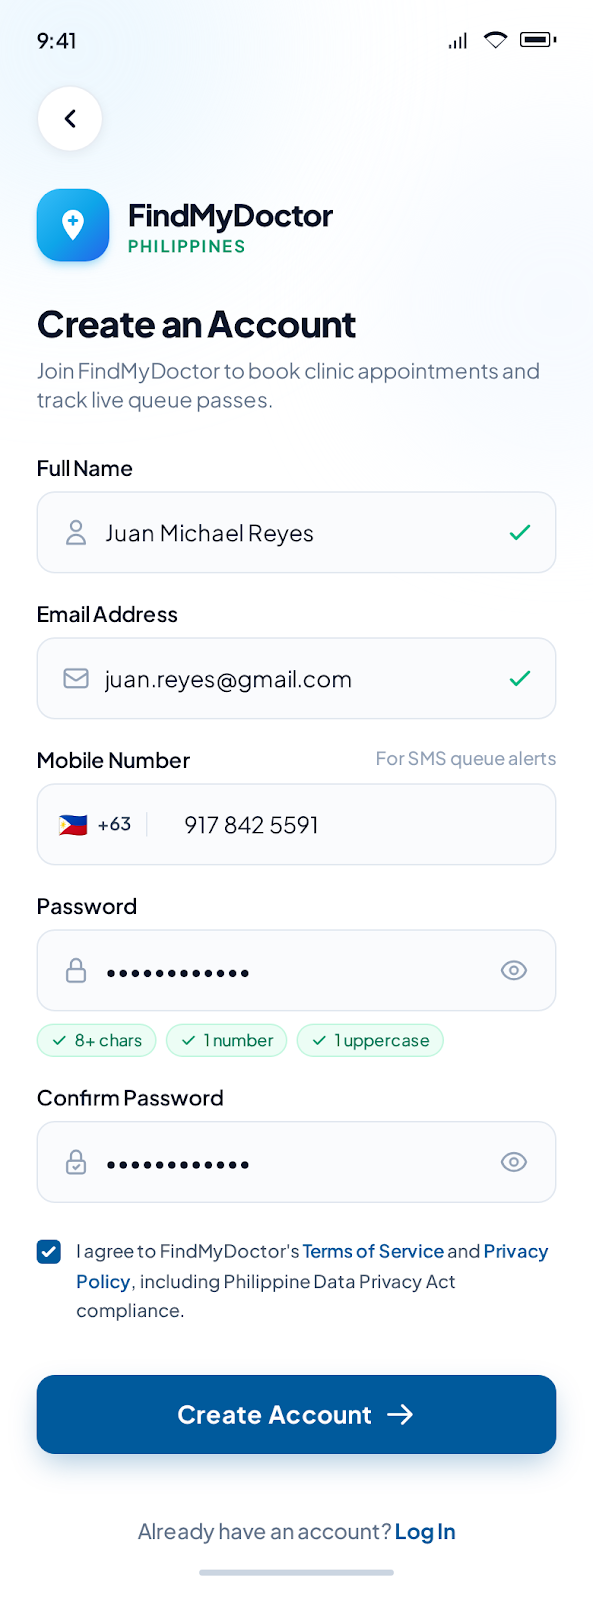
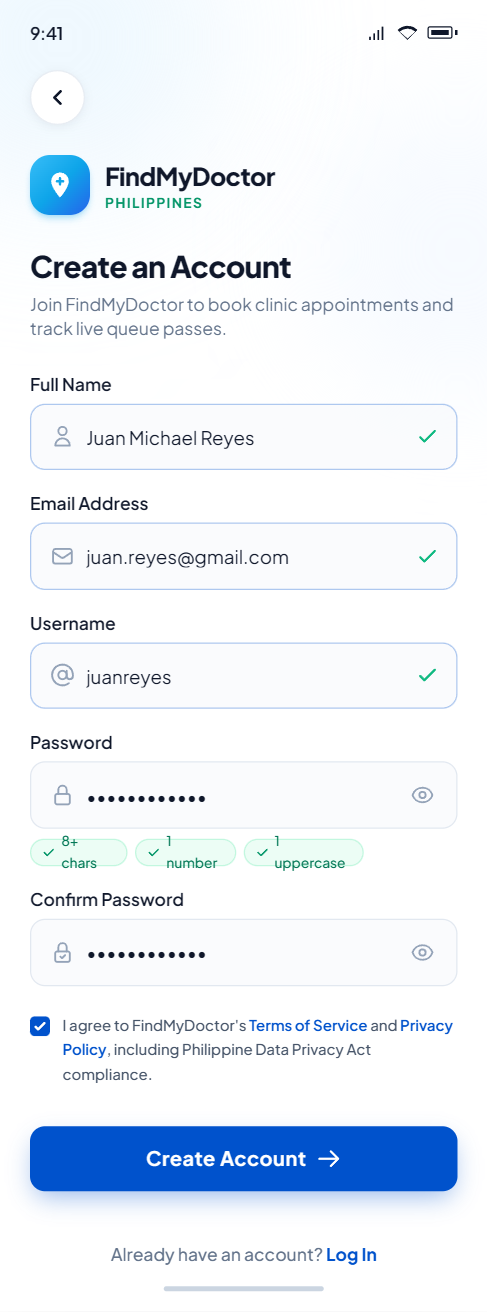
[Flores][docs] update patient registration prototype with username field

diff --git a/UI-Prototypes/users-mobile-ui/Patient Registration & Sign Up/code.html b/UI-Prototypes/users-mobile-ui/Patient Registration & Sign Up/code.html
@@ -1,13 +1,11 @@
-<!DOCTYPE html>
-
-<html lang="en"><head>
-<meta charset="utf-8"/>
-<meta content="width=device-width, initial-scale=1.0, maximum-scale=1.0, user-scalable=no" name="viewport"/>
+<!DOCTYPE html><html lang="en"><head>
+<meta charset="utf-8">
+<meta content="width=device-width, initial-scale=1.0, maximum-scale=1.0, user-scalable=no" name="viewport">
 <title>Patient Sign Up - FindMyDoctor Philippines</title>
 <!-- Google Fonts: Plus Jakarta Sans -->
-<link href="https://fonts.googleapis.com" rel="preconnect"/>
-<link crossorigin="" href="https://fonts.gstatic.com" rel="preconnect"/>
-<link href="https://fonts.googleapis.com/css2?family=Plus+Jakarta+Sans:wght@400;500;600;700;800&amp;display=swap" rel="stylesheet"/>
+<link href="https://fonts.googleapis.com" rel="preconnect">
+<link crossorigin="" href="https://fonts.gstatic.com" rel="preconnect">
+<link href="https://fonts.googleapis.com/css2?family=Plus+Jakarta+Sans:wght@400;500;600;700;800&amp;display=swap" rel="stylesheet">
 <!-- Tailwind CSS CDN with forms and container queries -->
 <script src="https://cdn.tailwindcss.com?plugins=forms,container-queries"></script>
 <script>
@@ -74,12 +72,12 @@
 <span class="text-sm font-semibold tracking-tight text-navy-900">9:41</span>
 <div class="flex items-center space-x-2 text-navy-900">
 <!-- Cellular Signal Bars -->
-<svg aria-hidden="true" class="w-4 h-4 fill-current" viewbox="0 0 24 24">
+<svg aria-hidden="true" class="w-4 h-4 fill-current" viewBox="0 0 24 24">
 <path class="opacity-0" d="M12 3c-4.97 0-9 4.03-9 9 0 2.12.74 4.07 1.97 5.61L4.35 19.4c-.39.39-.39 1.02 0 1.41.39.39 1.02.39 1.41 0l1.9-1.9C9.28 19.64 10.59 20 12 20c4.97 0 9-4.03 9-9s-4.03-9-9-9zm0 15c-3.31 0-6-2.69-6-6s2.69-6 6-6 6 2.69 6 6-2.69 6-6 6z"></path>
 <path d="M2 17h2v4H2v-4zm5-4h2v8H7v-8zm5-4h2v12h-2V9zm5-4h2v16h-2V5z"></path>
 </svg>
 <!-- Wi-Fi Icon -->
-<svg aria-hidden="true" class="w-4 h-4 fill-current" viewbox="0 0 24 24">
+<svg aria-hidden="true" class="w-4 h-4 fill-current" viewBox="0 0 24 24">
 <path d="M12 4C7.31 4 3.07 5.9 0 8.98L12 21 24 8.98C20.93 5.9 16.69 4 12 4zm0 3.38c3.6 0 6.87 1.34 9.38 3.55L12 19.34 2.62 10.93C5.13 8.72 8.4 7.38 12 7.38z"></path>
 </svg>
 <!-- Battery Icon with Pill fill -->
@@ -96,7 +94,7 @@
 <section class="mt-1 mb-6 flex flex-col items-start" data-purpose="navigation-and-brand">
 <!-- Circular Back Button -->
 <a aria-label="Go back to login" class="w-11 h-11 rounded-full bg-white border border-slate-200/80 shadow-back-btn flex items-center justify-center text-navy-900 hover:bg-slate-50 transition-all active:scale-95 duration-150 focus:outline-none focus:ring-2 focus:ring-brand-500/20" href="#login">
-<svg class="w-5 h-5" fill="none" stroke="currentColor" stroke-linecap="round" stroke-linejoin="round" stroke-width="2.5" viewbox="0 0 24 24">
+<svg class="w-5 h-5" fill="none" stroke="currentColor" stroke-linecap="round" stroke-linejoin="round" stroke-width="2.5" viewBox="0 0 24 24">
 <polyline points="15 18 9 12 15 6"></polyline>
 </svg>
 </a>
@@ -104,7 +102,7 @@
 <div class="mt-6 flex items-center gap-3" data-purpose="app-branding">
 <div class="w-12 h-12 rounded-2xl bg-gradient-to-br from-sky-400 via-sky-500 to-blue-600 flex items-center justify-center shadow-md shadow-sky-500/25 flex-shrink-0">
 <!-- Location Pin with Cross Icon -->
-<svg class="w-6 h-6 text-white fill-current" viewbox="0 0 24 24">
+<svg class="w-6 h-6 text-white fill-current" viewBox="0 0 24 24">
 <path d="M12 2C8.13 2 5 5.13 5 9c0 5.25 7 13 7 13s7-7.75 7-13c0-3.87-3.13-7-7-7zm0 11a4 4 0 1 1 0-8 4 4 0 0 1 0 8z" opacity="0.4"></path>
 <path d="M12 2C8.14 2 5 5.14 5 9c0 5.25 7 13 7 13s7-7.75 7-13c0-3.86-3.14-7-7-7zm2.5 8h-1.5v1.5a1 1 0 0 1-2 0V10H9.5a1 1 0 0 1 0-2H11V6.5a1 1 0 0 1 2 0V8h1.5a1 1 0 0 1 0 2z"></path>
 </svg>
@@ -131,14 +129,14 @@
 <label class="block text-sm font-semibold text-navy-900 mb-1.5" for="fullName">Full Name</label>
 <div class="relative flex items-center">
 <span class="absolute left-4 text-slate-400 pointer-events-none flex items-center justify-center">
-<svg class="w-5 h-5" fill="none" stroke="currentColor" stroke-width="1.8" viewbox="0 0 24 24">
+<svg class="w-5 h-5" fill="none" stroke="currentColor" stroke-width="1.8" viewBox="0 0 24 24">
 <path d="M16 7a4 4 0 11-8 0 4 4 0 018 0zM12 14a7 7 0 00-7 7h14a7 7 0 00-7-7z" stroke-linecap="round" stroke-linejoin="round"></path>
 </svg>
 </span>
-<input class="w-full bg-slate-50/70 border border-slate-200 text-slate-900 placeholder:text-slate-400 text-[15px] rounded-xl pl-11 pr-10 py-3.5 focus:bg-white focus:outline-none focus:ring-2 focus:ring-brand-500/20 focus:border-brand-600 transition duration-150" id="fullName" name="fullName" placeholder="e.g. Juan Michael Reyes" required="" type="text" value="Juan Michael Reyes"/>
+<input class="w-full bg-slate-50/70 border border-slate-200 text-slate-900 placeholder:text-slate-400 text-[15px] rounded-xl pl-11 pr-10 py-3.5 focus:bg-white focus:outline-none focus:ring-2 focus:ring-brand-500/20 focus:border-brand-600 transition duration-150" id="fullName" name="fullName" placeholder="e.g. Juan Michael Reyes" required="" type="text" value="Juan Michael Reyes" style="--tw-ring-color: rgba(0, 82, 204, 0.2); border-color: rgba(0, 82, 204, 0.3);">
 <!-- Valid Checkmark Indicator -->
 <span class="absolute right-3.5 text-emerald-500 flex items-center">
-<svg class="w-5 h-5" fill="none" stroke="currentColor" stroke-width="2.2" viewbox="0 0 24 24">
+<svg class="w-5 h-5" fill="none" stroke="currentColor" stroke-width="2.2" viewBox="0 0 24 24">
 <path d="M5 13l4 4L19 7" stroke-linecap="round" stroke-linejoin="round"></path>
 </svg>
 </span>
@@ -149,14 +147,14 @@
 <label class="block text-sm font-semibold text-navy-900 mb-1.5" for="email">Email Address</label>
 <div class="relative flex items-center">
 <span class="absolute left-4 text-slate-400 pointer-events-none flex items-center">
-<svg class="w-5 h-5" fill="none" stroke="currentColor" stroke-width="1.8" viewbox="0 0 24 24">
+<svg class="w-5 h-5" fill="none" stroke="currentColor" stroke-width="1.8" viewBox="0 0 24 24">
 <path d="M3 8l7.89 5.26a2 2 0 002.22 0L21 8M5 19h14a2 2 0 002-2V7a2 2 0 00-2-2H5a2 2 0 00-2 2v10a2 2 0 002 2z" stroke-linecap="round" stroke-linejoin="round"></path>
 </svg>
 </span>
-<input class="w-full bg-slate-50/70 border border-slate-200 text-slate-900 placeholder:text-slate-400 text-[15px] rounded-xl pl-11 pr-10 py-3.5 focus:bg-white focus:outline-none focus:ring-2 focus:ring-brand-500/20 focus:border-brand-600 transition duration-150" id="email" name="email" placeholder="Enter your email" required="" type="email" value="juan.reyes@gmail.com"/>
+<input class="w-full bg-slate-50/70 border border-slate-200 text-slate-900 placeholder:text-slate-400 text-[15px] rounded-xl pl-11 pr-10 py-3.5 focus:bg-white focus:outline-none focus:ring-2 focus:ring-brand-500/20 focus:border-brand-600 transition duration-150" id="email" name="email" placeholder="Enter your email" required="" type="email" value="juan.reyes@gmail.com" style="--tw-ring-color: rgba(0, 82, 204, 0.2); border-color: rgba(0, 82, 204, 0.3);">
 <!-- Valid Checkmark Indicator -->
 <span class="absolute right-3.5 text-emerald-500 flex items-center">
-<svg class="w-5 h-5" fill="none" stroke="currentColor" stroke-width="2.2" viewbox="0 0 24 24">
+<svg class="w-5 h-5" fill="none" stroke="currentColor" stroke-width="2.2" viewBox="0 0 24 24">
 <path d="M5 13l4 4L19 7" stroke-linecap="round" stroke-linejoin="round"></path>
 </svg>
 </span>
@@ -164,17 +162,20 @@
 </div>
 <!-- Mobile Number Field (Philippine format) -->
 <div>
-<div class="flex justify-between items-center mb-1.5">
-<label class="block text-sm font-semibold text-navy-900" for="phone">Mobile Number</label>
-<span class="text-xs font-medium text-slate-400">For SMS queue alerts</span>
-</div>
+<label class="block text-sm font-semibold text-navy-900 mb-1.5" for="username">Username</label>
 <div class="relative flex items-center">
-<!-- Philippine Flag & Country Code Pill -->
-<div class="absolute left-3.5 flex items-center space-x-1.5 pr-2.5 border-r border-slate-200 pointer-events-none">
-<span class="text-base leading-none">🇵🇭</span>
-<span class="text-xs font-semibold text-slate-700">+63</span>
-</div>
-<input class="w-full bg-slate-50/70 border border-slate-200 text-slate-900 placeholder:text-slate-400 text-[15px] rounded-xl pl-24 pr-4 py-3.5 focus:bg-white focus:outline-none focus:ring-2 focus:ring-brand-500/20 focus:border-brand-600 transition duration-150" id="phone" name="phone" placeholder="917 123 4567" type="tel" value="917 842 5591"/>
+<span class="absolute left-4 text-slate-400 pointer-events-none flex items-center justify-center">
+<svg class="w-5 h-5" fill="none" stroke="currentColor" stroke-width="1.8" viewBox="0 0 24 24">
+<circle cx="12" cy="12" r="4"></circle>
+<path d="M16 8v5a3 3 0 0 0 6 0v-1a10 10 0 1 0-3.92 7.94" stroke-linecap="round" stroke-linejoin="round"></path>
+</svg>
+</span>
+<input class="w-full bg-slate-50/70 border border-slate-200 text-slate-900 placeholder:text-slate-400 text-[15px] rounded-xl pl-11 pr-10 py-3.5 focus:bg-white focus:outline-none focus:ring-2 focus:ring-brand-500/20 focus:border-brand-600 transition duration-150" id="username" name="username" placeholder="e.g. juanreyes" required="" type="text" value="juanreyes" style="--tw-ring-color: rgba(0, 82, 204, 0.2); border-color: rgba(0, 82, 204, 0.3);">
+<span class="absolute right-3.5 text-emerald-500 flex items-center">
+<svg class="w-5 h-5" fill="none" stroke="currentColor" stroke-width="2.2" viewBox="0 0 24 24">
+<path d="M5 13l4 4L19 7" stroke-linecap="round" stroke-linejoin="round"></path>
+</svg>
+</span>
 </div>
 </div>
 <!-- Password Field -->
@@ -182,15 +183,15 @@
 <label class="block text-sm font-semibold text-navy-900 mb-1.5" for="password">Password</label>
 <div class="relative flex items-center">
 <span class="absolute left-4 text-slate-400 pointer-events-none flex items-center">
-<svg class="w-5 h-5" fill="none" stroke="currentColor" stroke-width="1.8" viewbox="0 0 24 24">
+<svg class="w-5 h-5" fill="none" stroke="currentColor" stroke-width="1.8" viewBox="0 0 24 24">
 <rect height="10" rx="2" stroke-linecap="round" stroke-linejoin="round" width="14" x="5" y="11"></rect>
 <path d="M8 11V7a4 4 0 118 0v4" stroke-linecap="round" stroke-linejoin="round"></path>
 </svg>
 </span>
-<input class="w-full bg-slate-50/70 border border-slate-200 text-slate-900 placeholder:text-slate-400 text-[15px] rounded-xl pl-11 pr-11 py-3.5 focus:bg-white focus:outline-none focus:ring-2 focus:ring-brand-500/20 focus:border-brand-600 transition duration-150" id="password" name="password" placeholder="Create password (min. 8 characters)" required="" type="password" value="Mabuhay2024!"/>
+<input class="w-full bg-slate-50/70 border border-slate-200 text-slate-900 placeholder:text-slate-400 text-[15px] rounded-xl pl-11 pr-11 py-3.5 focus:bg-white focus:outline-none focus:ring-2 focus:ring-brand-500/20 focus:border-brand-600 transition duration-150" id="password" name="password" placeholder="Create password (min. 8 characters)" required="" type="password" value="Mabuhay2024!" style="--tw-ring-color: rgba(0, 82, 204, 0.2);">
 <!-- Password Visibility Toggle Button -->
 <button aria-label="Toggle password visibility" class="absolute right-3.5 text-slate-400 hover:text-slate-600 focus:outline-none p-1" data-purpose="password-visibility-toggle" id="togglePassword" type="button">
-<svg class="w-5 h-5" fill="none" stroke="currentColor" stroke-width="1.8" viewbox="0 0 24 24">
+<svg class="w-5 h-5" fill="none" stroke="currentColor" stroke-width="1.8" viewBox="0 0 24 24">
 <path d="M15 12a3 3 0 11-6 0 3 3 0 016 0z" stroke-linecap="round" stroke-linejoin="round"></path>
 <path d="M2.458 12C3.732 7.943 7.523 5 12 5c4.478 0 8.268 2.943 9.542 7-1.274 4.057-5.064 7-9.542 7-4.477 0-8.268-2.943-9.542-7z" stroke-linecap="round" stroke-linejoin="round"></path>
 </svg>
@@ -199,19 +200,19 @@
 <!-- Password Requirement Pills / Realtime status -->
 <div class="mt-2 flex flex-wrap gap-1.5" data-purpose="password-rules-indicator">
 <span class="inline-flex items-center text-[11px] font-medium bg-emerald-50 text-emerald-700 px-2 py-0.5 rounded-full border border-emerald-200/60">
-<svg class="w-3 h-3 mr-1 text-emerald-600" fill="currentColor" viewbox="0 0 20 20">
+<svg class="w-3 h-3 mr-1 text-emerald-600" fill="currentColor" viewBox="0 0 20 20">
 <path clip-rule="evenodd" d="M16.707 5.293a1 1 0 010 1.414l-8 8a1 1 0 01-1.414 0l-4-4a1 1 0 011.414-1.414L8 12.586l7.293-7.293a1 1 0 011.414 0z" fill-rule="evenodd"></path>
 </svg>
               8+ chars
             </span>
 <span class="inline-flex items-center text-[11px] font-medium bg-emerald-50 text-emerald-700 px-2 py-0.5 rounded-full border border-emerald-200/60">
-<svg class="w-3 h-3 mr-1 text-emerald-600" fill="currentColor" viewbox="0 0 20 20">
+<svg class="w-3 h-3 mr-1 text-emerald-600" fill="currentColor" viewBox="0 0 20 20">
 <path clip-rule="evenodd" d="M16.707 5.293a1 1 0 010 1.414l-8 8a1 1 0 01-1.414 0l-4-4a1 1 0 011.414-1.414L8 12.586l7.293-7.293a1 1 0 011.414 0z" fill-rule="evenodd"></path>
 </svg>
               1 number
             </span>
 <span class="inline-flex items-center text-[11px] font-medium bg-emerald-50 text-emerald-700 px-2 py-0.5 rounded-full border border-emerald-200/60">
-<svg class="w-3 h-3 mr-1 text-emerald-600" fill="currentColor" viewbox="0 0 20 20">
+<svg class="w-3 h-3 mr-1 text-emerald-600" fill="currentColor" viewBox="0 0 20 20">
 <path clip-rule="evenodd" d="M16.707 5.293a1 1 0 010 1.414l-8 8a1 1 0 01-1.414 0l-4-4a1 1 0 011.414-1.414L8 12.586l7.293-7.293a1 1 0 011.414 0z" fill-rule="evenodd"></path>
 </svg>
               1 uppercase
@@ -223,15 +224,15 @@
 <label class="block text-sm font-semibold text-navy-900 mb-1.5" for="confirmPassword">Confirm Password</label>
 <div class="relative flex items-center">
 <span class="absolute left-4 text-slate-400 pointer-events-none flex items-center">
-<svg class="w-5 h-5" fill="none" stroke="currentColor" stroke-width="1.8" viewbox="0 0 24 24">
+<svg class="w-5 h-5" fill="none" stroke="currentColor" stroke-width="1.8" viewBox="0 0 24 24">
 <rect height="10" rx="2" stroke-linecap="round" stroke-linejoin="round" width="14" x="5" y="11"></rect>
 <path d="M8 11V7a4 4 0 118 0v4" stroke-linecap="round" stroke-linejoin="round"></path>
 <path d="M10 16l1.5 1.5 3-3" stroke-linecap="round" stroke-linejoin="round"></path>
 </svg>
 </span>
-<input class="w-full bg-slate-50/70 border border-slate-200 text-slate-900 placeholder:text-slate-400 text-[15px] rounded-xl pl-11 pr-11 py-3.5 focus:bg-white focus:outline-none focus:ring-2 focus:ring-brand-500/20 focus:border-brand-600 transition duration-150" id="confirmPassword" name="confirmPassword" placeholder="Confirm your password" required="" type="password" value="Mabuhay2024!"/>
+<input class="w-full bg-slate-50/70 border border-slate-200 text-slate-900 placeholder:text-slate-400 text-[15px] rounded-xl pl-11 pr-11 py-3.5 focus:bg-white focus:outline-none focus:ring-2 focus:ring-brand-500/20 focus:border-brand-600 transition duration-150" id="confirmPassword" name="confirmPassword" placeholder="Confirm your password" required="" type="password" value="Mabuhay2024!" style="--tw-ring-color: rgba(0, 82, 204, 0.2);">
 <button aria-label="Toggle confirm password visibility" class="absolute right-3.5 text-slate-400 hover:text-slate-600 focus:outline-none p-1" id="toggleConfirmPassword" type="button">
-<svg class="w-5 h-5" fill="none" stroke="currentColor" stroke-width="1.8" viewbox="0 0 24 24">
+<svg class="w-5 h-5" fill="none" stroke="currentColor" stroke-width="1.8" viewBox="0 0 24 24">
 <path d="M15 12a3 3 0 11-6 0 3 3 0 016 0z" stroke-linecap="round" stroke-linejoin="round"></path>
 <path d="M2.458 12C3.732 7.943 7.523 5 12 5c4.478 0 8.268 2.943 9.542 7-1.274 4.057-5.064 7-9.542 7-4.477 0-8.268-2.943-9.542-7z" stroke-linecap="round" stroke-linejoin="round"></path>
 </svg>
@@ -242,20 +243,20 @@
 <div class="pt-1.5 pb-1">
 <label class="flex items-start cursor-pointer group select-none">
 <div class="relative flex items-center mt-0.5">
-<input checked="" class="w-4 h-4 text-brand-700 bg-white border-slate-300 rounded focus:ring-brand-500/30 focus:ring-2 focus:ring-offset-0 transition cursor-pointer" id="terms" name="terms" type="checkbox"/>
+<input checked="" class="w-4 h-4 text-brand-700 bg-white border-slate-300 rounded focus:ring-brand-500/30 focus:ring-2 focus:ring-offset-0 transition cursor-pointer" id="terms" name="terms" type="checkbox" style="accent-color: rgb(0, 82, 204); color: rgb(0, 82, 204);">
 </div>
 <span class="ml-2.5 text-xs text-slate-600 leading-relaxed font-medium">
               I agree to FindMyDoctor's 
-              <a class="text-brand-700 font-semibold hover:underline" href="#terms">Terms of Service</a> and 
-              <a class="text-brand-700 font-semibold hover:underline" href="#privacy">Privacy Policy</a>, including Philippine Data Privacy Act compliance.
+              <a class="text-brand-700 font-semibold hover:underline" href="#terms" style="color: rgb(0, 82, 204);">Terms of Service</a> and 
+              <a class="text-brand-700 font-semibold hover:underline" href="#privacy" style="color: rgb(0, 82, 204);">Privacy Policy</a>, including Philippine Data Privacy Act compliance.
             </span>
 </label>
 </div>
 <!-- Primary Call to Action Button -->
 <div class="pt-3">
-<button class="w-full h-13 py-3.5 px-6 rounded-xl bg-brand-700 hover:bg-brand-800 active:scale-[0.99] text-white font-bold text-[16px] tracking-wide flex items-center justify-center space-x-2 shadow-btn-primary transition duration-150 focus:outline-none focus:ring-4 focus:ring-brand-700/25" id="createAccountBtn" type="submit">
-<span>Create Account</span>
-<svg class="w-5 h-5" fill="none" stroke="currentColor" stroke-width="2.2" viewbox="0 0 24 24">
+<button class="w-full h-13 py-3.5 px-6 rounded-xl bg-brand-700 hover:bg-brand-800 active:scale-[0.99] text-white font-bold text-[16px] tracking-wide flex items-center justify-center space-x-2 shadow-btn-primary transition duration-150 focus:outline-none focus:ring-4 focus:ring-brand-700/25" id="createAccountBtn" type="submit" style="background-color: rgb(0, 82, 204); box-shadow: rgba(0, 82, 204, 0.4) 0px 8px 20px -4px;">
+<span class="">Create Account</span>
+<svg class="w-5 h-5" fill="none" stroke="currentColor" stroke-width="2.2" viewBox="0 0 24 24">
 <path d="M14 5l7 7m0 0l-7 7m7-7H3" stroke-linecap="round" stroke-linejoin="round"></path>
 </svg>
 </button>
@@ -268,7 +269,7 @@
 <!-- Alternate Login Redirect Link -->
 <p class="text-sm font-medium text-slate-500 mb-4">
         Already have an account? 
-        <a class="text-brand-700 font-bold hover:text-brand-800 transition duration-150" href="#login">Log In</a>
+        <a class="text-brand-700 font-bold hover:text-brand-800 transition duration-150" href="#login" style="color: rgb(0, 82, 204);">Log In</a>
 </p>
 <!-- iOS Home Bar Indicator -->
 <div class="w-32 h-1 bg-slate-300 rounded-full mb-1"></div>
@@ -301,4 +302,8 @@
     }
   </script>
 <!-- END: InteractiveHandlers -->
+
+
+
+
 </body></html>
